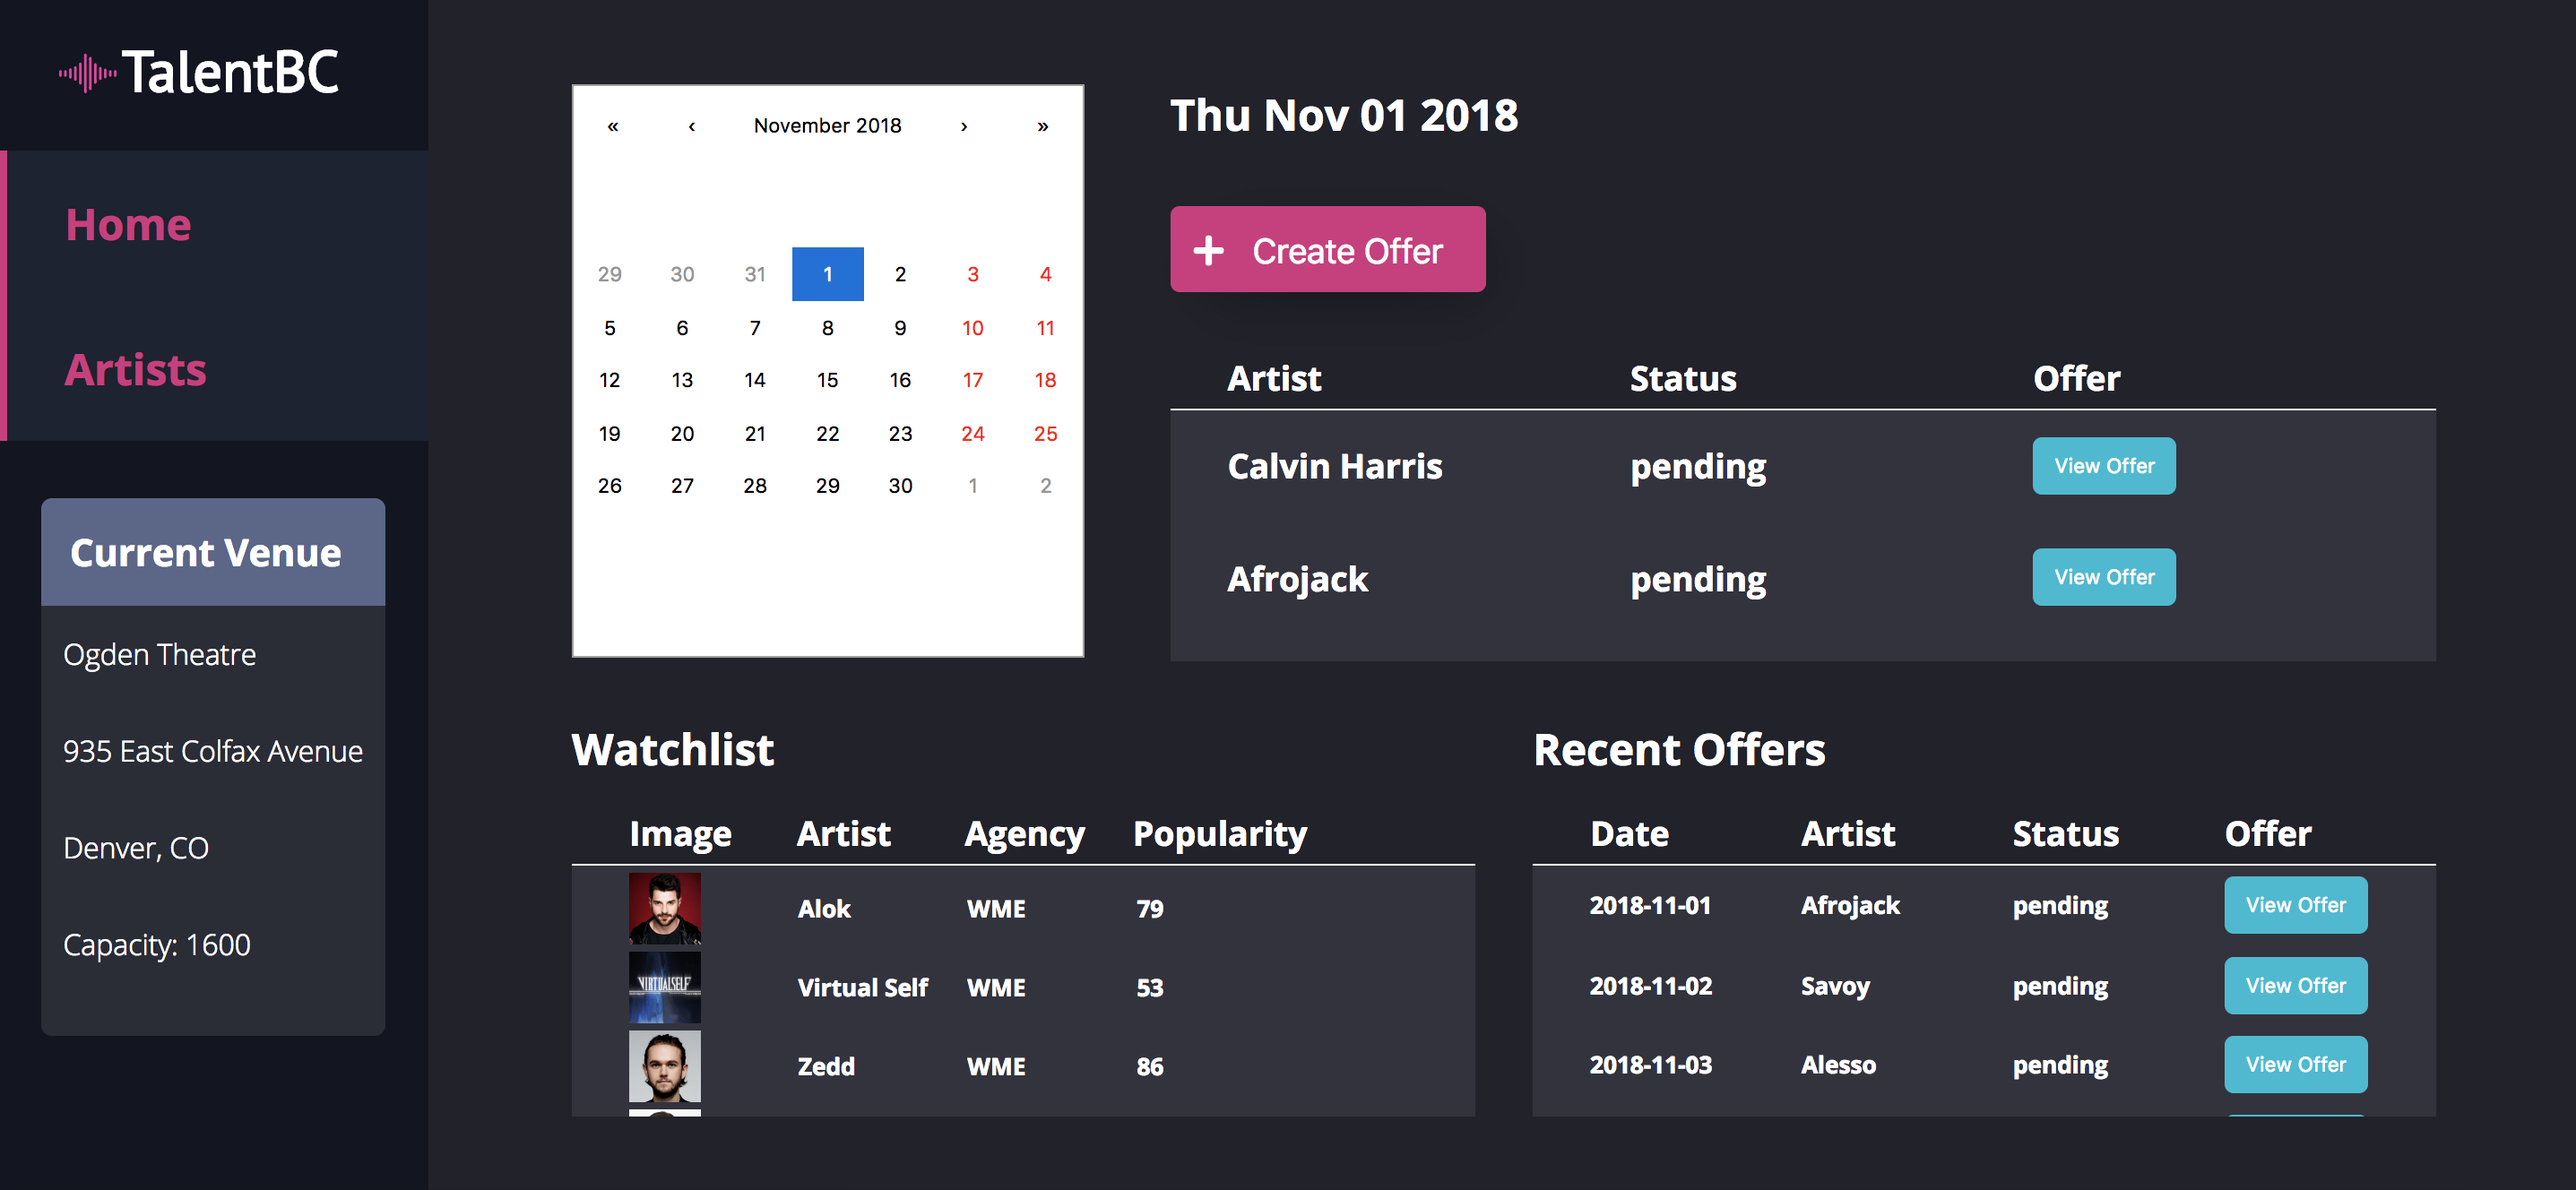
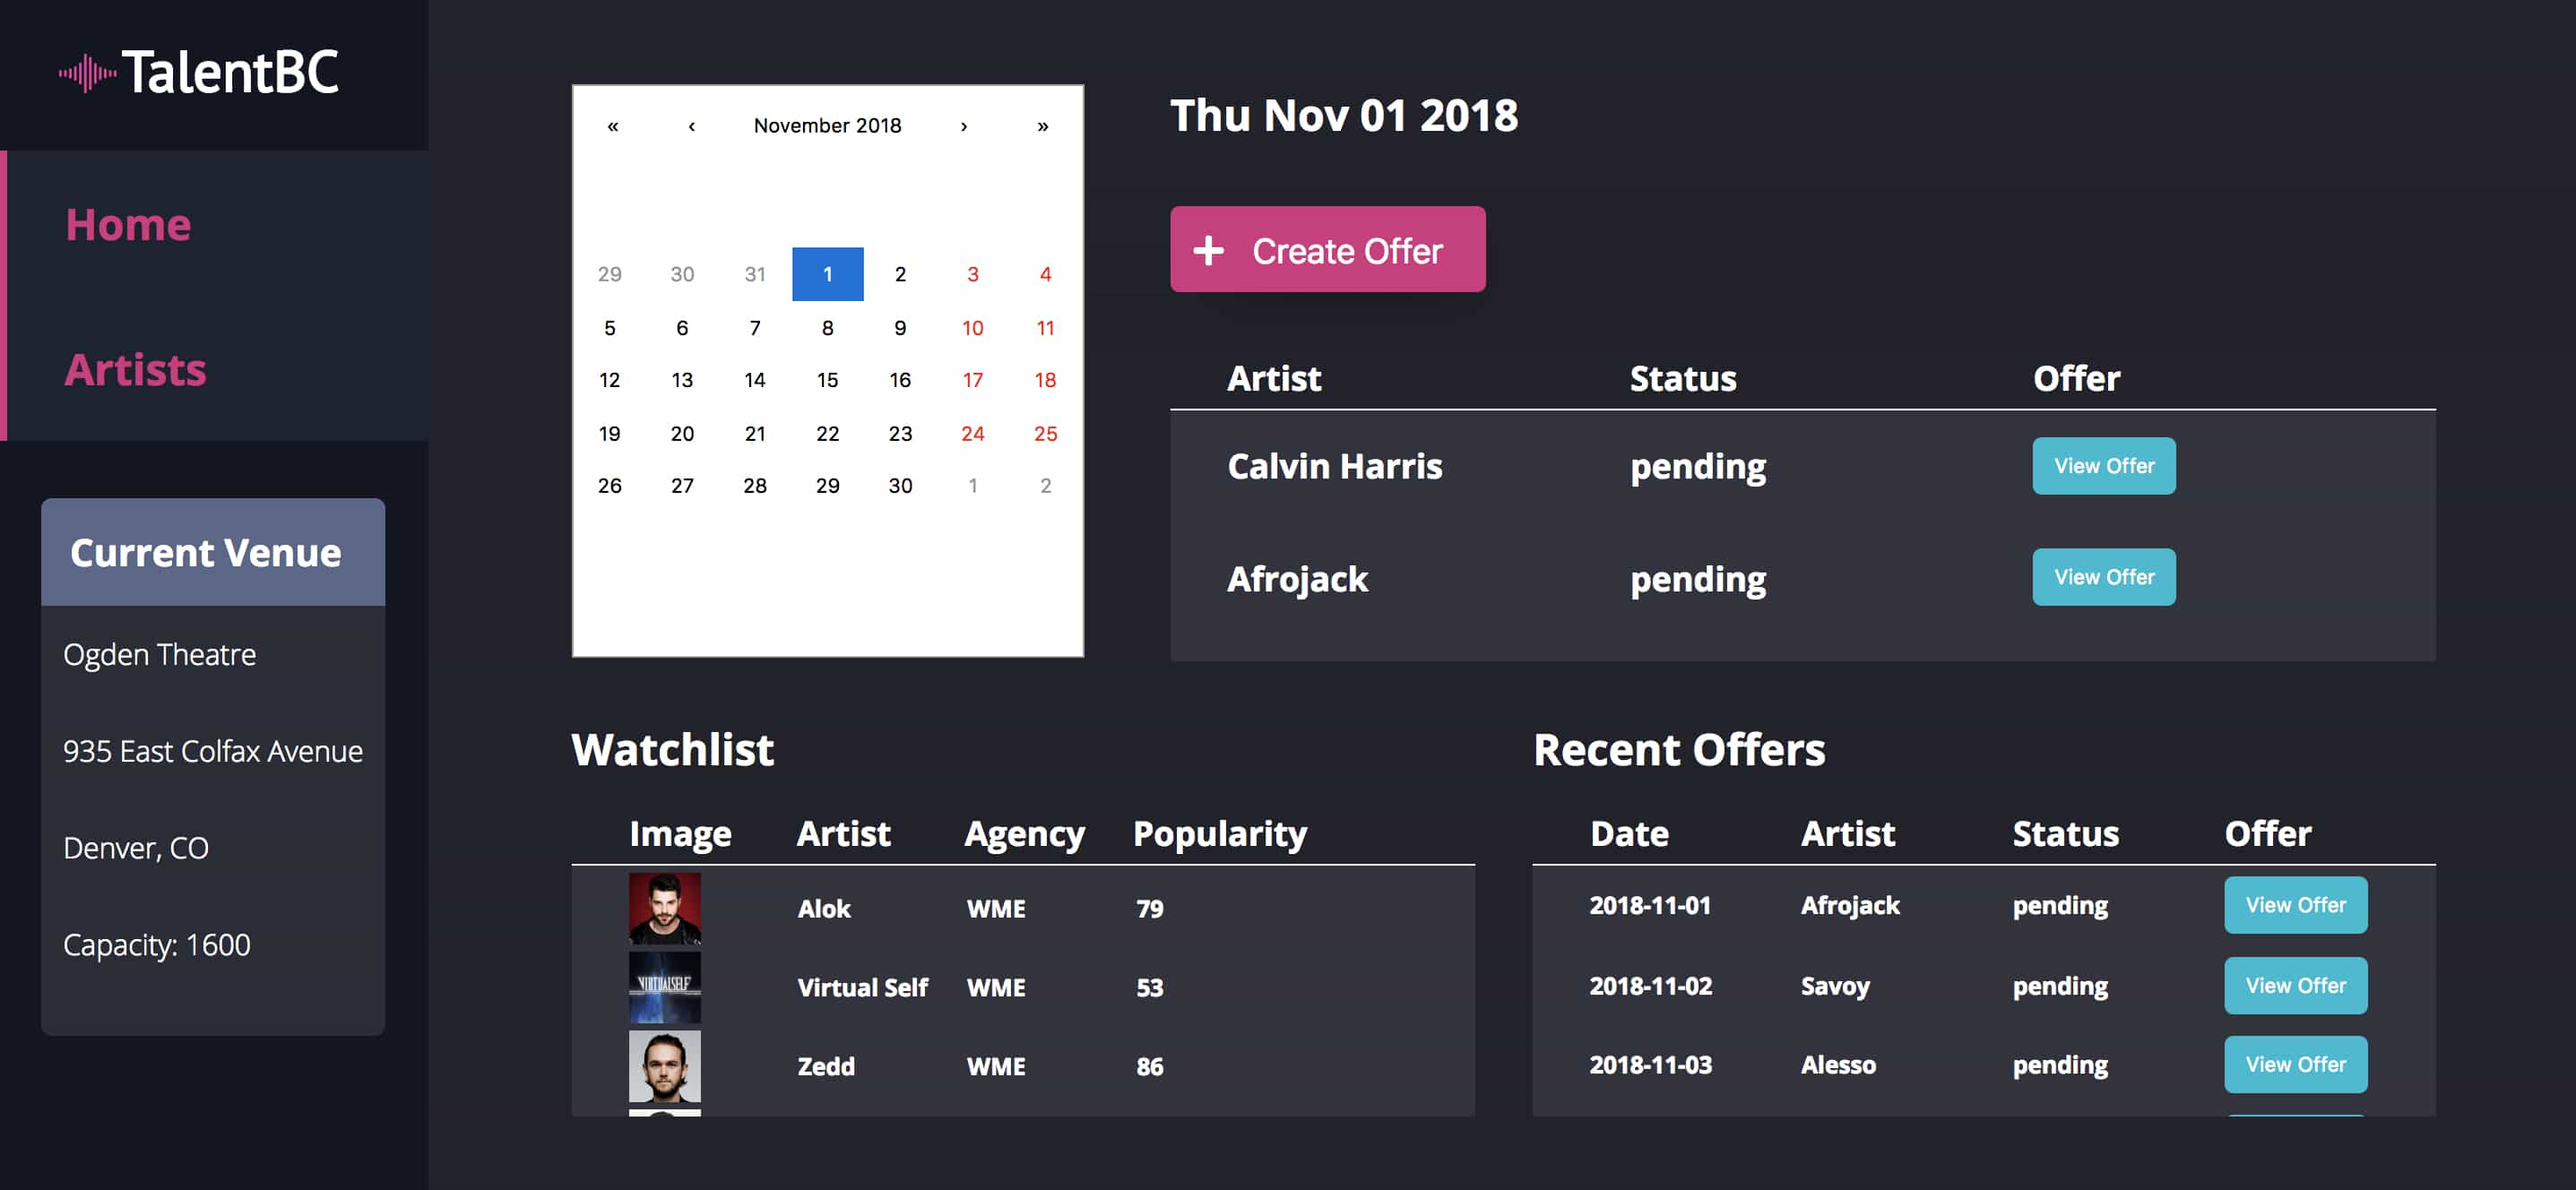
Optimize images on Landing

diff --git a/src/components/Landing/Landing.js b/src/components/Landing/Landing.js
@@ -3,7 +3,7 @@ import SignUp from '../SignUp/SignUp';
 import LogIn from '../LogIn/LogIn';
 import Splash from '../Splash/Splash';
 import dashImage from './dashImage.jpg';
-import artistIndexImage from './artistIndexImage.png';
+import artistIndexImage from './artistIndexImage.jpg';
 import './Landing.css';
 
 class Landing extends Component {
